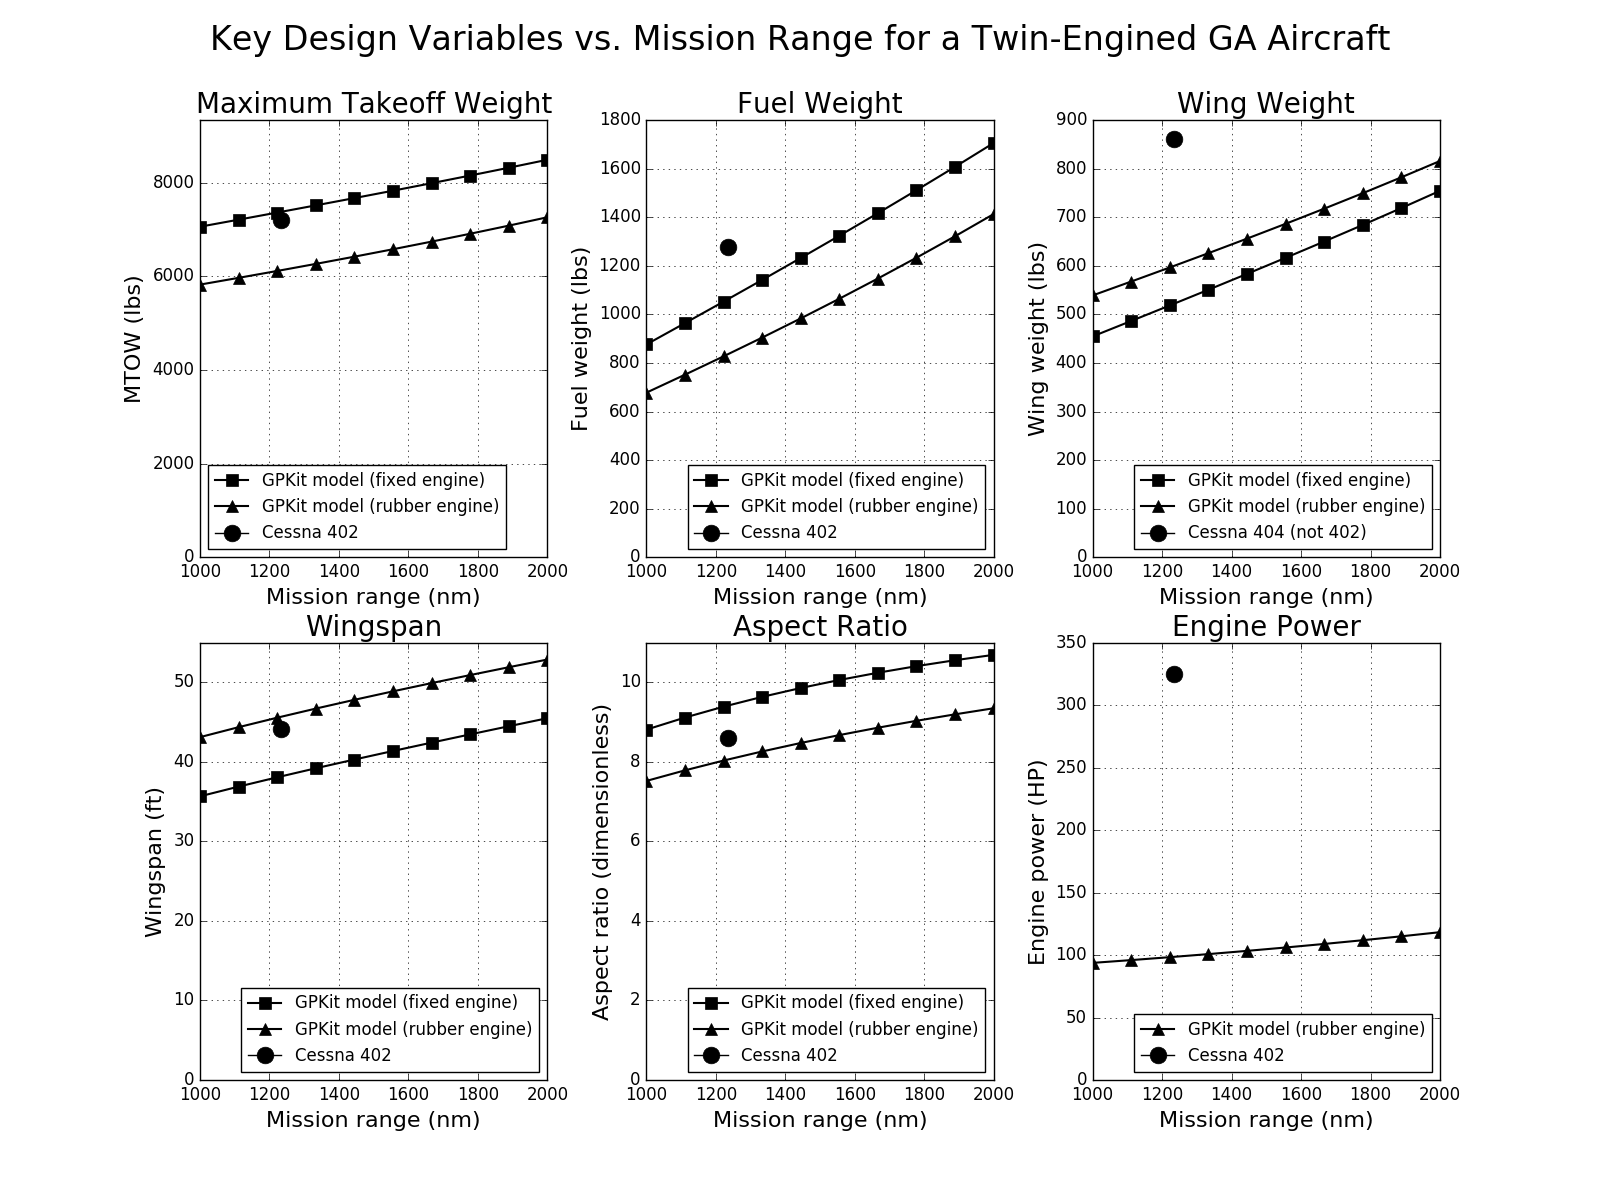
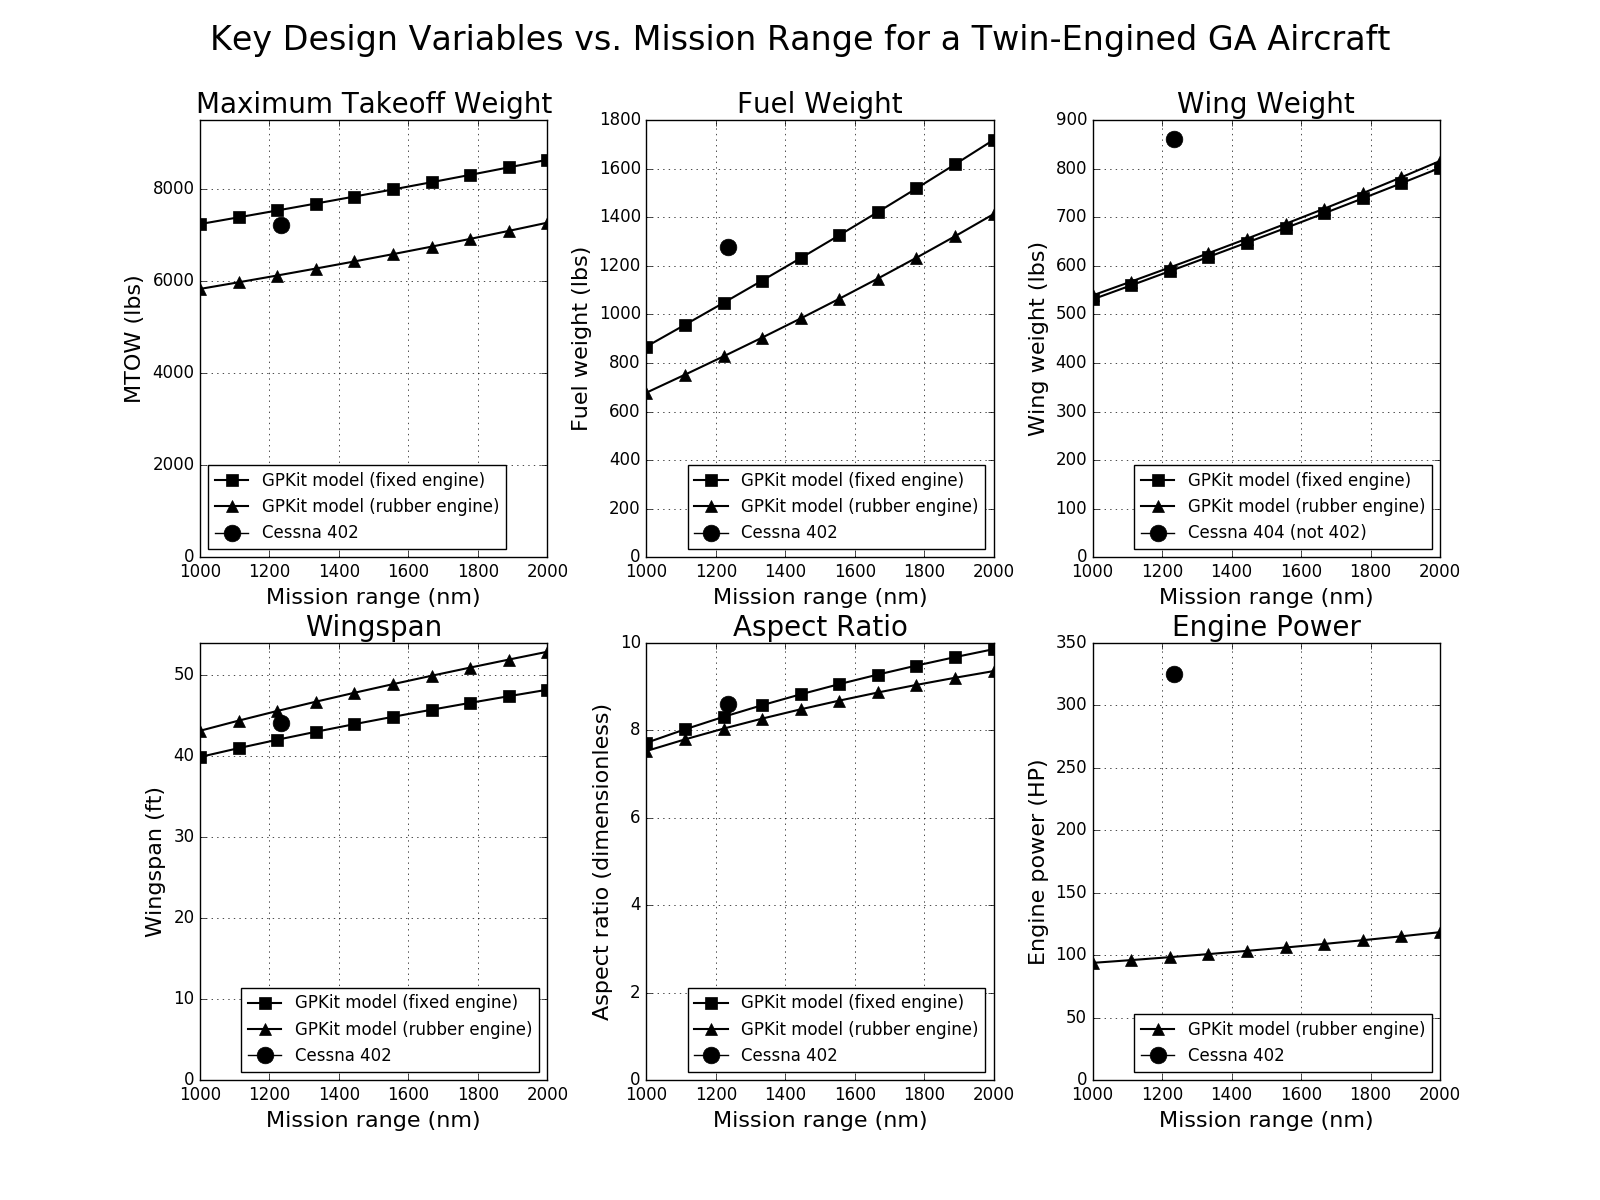
Add stall-speed constraint

diff --git a/GA_aircraft_models.py b/GA_aircraft_models.py
@@ -15,19 +15,20 @@ class Aircraft(Model): #Overall vehicle model
         W_ZF = Variable("W_ZF","lbf","Zero-fuel weight")
         W_fuel = Variable("W_fuel","lbf","Fuel weight")
         W_TO = Variable("W_TO","lbf","Takeoff weight")
+
+        self.g = Variable("g",9.807,"m/s**2","Gravitational constant")    
         self.Swet = Variable("Swet","m^2","Aircraft wetted area")
-        
         self.W_TO = W_TO
 
-        self.fuse = Fuselage()
+        self.fuse = Fuselage(self)
         self.wing = Wing(self)
-        self.tailplane = Tailplane()
-        self.fin = VerticalFin()
-        self.engines = Engines(engineType)
-        self.nacelles = Nacelles()
+        self.tailplane = Tailplane(self)
+        self.fin = VerticalFin(self)
+        self.engines = Engines(self,engineType)
+        self.nacelles = Nacelles(self)
         self.landing_gear = LandingGear(self)
-        self.crew = Crew()
-        self.passengers = Passengers()
+        self.crew = Crew(self)
+        self.passengers = Passengers(self)
         self.allOtherWeights = AllOtherWeights(self)
 
         self.components = [self.fuse, self.wing, self.tailplane,self.fin,
@@ -47,8 +48,9 @@ class Aircraft(Model): #Overall vehicle model
         return constraints
 
 class Fuselage(Model):
-    def setup(self):
-        g = Variable("g",9.807,"m/s**2","Gravitational constant")
+    def setup(self,aircraft):
+
+    	g = aircraft.g
         weight_multiplier_fuse = Variable("weight_multiplier_fuse",7,
             "kg/m^2","Fuselage weight multiplier")
         Swet = Variable("Swet",43.6,"m^2","Fuselage wetted area")
@@ -72,7 +74,7 @@ class Wing(Model):
             "Allowable stress of 7075-T6 aluminum")
         wing_SA_multiplier = Variable("wing_SA_multiplier",
             3.60,"kg/m^2","Wing surface-area weight multiplier")
-        g = Variable("g",9.807,"m/s**2","Gravitational constant")
+        g = aircraft.g
         WTO_term = Variable("WTO_term","N*m","Takeoff-weight term")
 
         lambda_wing = 0.6 #Included here to avoid posynomial-compatibility issues
@@ -90,7 +92,7 @@ class Wing(Model):
 
 
 class Tailplane(Model):
-    def setup(self):
+    def setup(self,aircraft):
         S_HT = Variable("S_HT","m^2","Tailplane reference area")
         Swet = Variable("Swet","m^2","Tailplane wetted area")
         c_HT = Variable("c_HT",0.8,"-","Tailplane volume coefficient")
@@ -99,7 +101,7 @@ class Tailplane(Model):
         t_c = Variable("t_c",0.15,"-","Thickness-to-chord ratio")
         weight_multiplier_tail = Variable("weight_multiplier_tail",10,
             "kg/m^2","Tail weight multiplier")
-        g = Variable("g",9.807,"m/s**2","Gravitational constant")
+        g = aircraft.g
         W = Variable("W","N","Tailplane weight")
 
         return [Swet >= 1.6*S_HT*(1+0.25*t_c),
@@ -107,7 +109,7 @@ class Tailplane(Model):
         
 
 class VerticalFin(Model):
-    def setup(self):
+    def setup(self,aircraft):
         S_VT = Variable("S_VT","m^2","Fin reference area")
         Swet = Variable("Swet","m^2","Fin wetted area")
         c_VT = Variable("c_VT",0.07,"-","Fin volume coefficient")
@@ -116,20 +118,20 @@ class VerticalFin(Model):
         t_c = Variable("t_c",0.15,"-","Thickness-to-chord ratio")
         weight_multiplier_tail = Variable("weight_multiplier_tail",10,
             "kg/m^2","Tail weight multiplier")
-        g = Variable("g",9.807,"m/s**2","Gravitational constant")
+        g = aircraft.g
         W = Variable("W","N","Vertical-fin weight")
 
         return [Swet >= 1.6*S_VT*(1+0.25*t_c),
             W == g * weight_multiplier_tail * S_VT]
 
 class Engines(Model): #Fixed engine only for now
-    def setup(self,engineType):
+    def setup(self,aircraft,engineType):
         # Engine-related variables & constants
         num_engines = Variable("num_engines",2,"-","Number of engines")
         eta_prop = Variable("eta_prop",0.8,'-',"Propeller efficiency")
         SFC = Variable("SFC",6.94e-8,"s**2/m**2",\
             "Engine power-specific fuel consumption") # careful with unit conversion
-        g = Variable("g",9.807,"m/s**2","Gravitational constant")
+        g = aircraft.g
         W = Variable("W","N","Engine(s) weight")
         Swet = Variable("Swet",0,"m^2","Wetted area of engines")
         P = Variable("P","kW","Engine power")
@@ -151,7 +153,7 @@ class Engines(Model): #Fixed engine only for now
 
 
 class Nacelles (Model):
-    def setup(self):
+    def setup(self,aircraft):
         Swet_oneNacelle = Variable("Swet_oneNacelle",8.172,"m^2","Wetted area of 1 nacelle")
         num_nacelles = Variable("num_nacelles",2,"-","Number of nacelles")
         Swet = Variable("Swet","m^2","Wetted area of nacelles")
@@ -169,10 +171,10 @@ class LandingGear(Model):
 
 
 class Crew(Model):
-    def setup(self):
+    def setup(self,aircraft):
         num_crew = Variable("num_crew",2,"-","Number of crew members")
         crew_mass = Variable("crew_mass",200,"lbs","Mass per crew member")
-        g = Variable("g",9.807,"m/s**2","Gravitational constant")
+        g = aircraft.g
         W = Variable("W","N","Crew weight")
         Swet = Variable("Swet",0,"m^2","Wetted area of crew")
         
@@ -180,11 +182,11 @@ class Crew(Model):
 
 
 class Passengers(Model):
-    def setup(self):
+    def setup(self,aircraft):
         num_passengers = Variable("num_passengers",8,"-","Number of passengers")
         passenger_mass = Variable("passenger_mass",180+40,"lbs",
             "Mass per passenger (including baggage)")
-        g = Variable("g",9.807,"m/s**2","Gravitational constant")
+        g = aircraft.g
         W = Variable("W","N","Passenger weight")
         Swet = Variable("Swet",0,"m^2","Wetted area of passengers")
         
@@ -203,7 +205,8 @@ class Mission(Model):
         
         self.aircraft = aircraft
         W_TO = aircraft["W_TO"]
-        g = Variable("g",9.807,"m/s**2","Gravitational constant")
+        g = aircraft.g
+        self.g = g
 
         constraints = []
         
@@ -256,7 +259,7 @@ class AircraftPerformance(Model):
         CL = self.aerodynamics["C_L"]
         CD = self.aerodynamics["C_D"]
         
-        g = Variable("g",9.807,"m/s**2","Gravitational constant")
+        g = aircraft.g
 
         constraints = []
         constraints += [self.aerodynamics]
@@ -320,9 +323,6 @@ class FlightState(Model):
         
         constraints = []
 
-        g = Variable("g",9.807,"m/s**2","Gravitational constant")
-        constraints += [g == g]
-
         if stateType == "cruise":
             V = Variable("V",180,"knots","Airspeed")
             h = Variable("h",8000,"ft","Altitude")
@@ -336,7 +336,7 @@ class FlightState(Model):
 
         return constraints 
 
-class TakeoffConstraint(Model):
+class TakeoffDistance(Model):
 
     def setup(self,aircraft,s_TO_ft=1763,state=FlightState(stateType="takeoff")):
         self.aircraft = aircraft
@@ -345,7 +345,7 @@ class TakeoffConstraint(Model):
         
         CLmax_TO = self.aerodynamics["CLmax_TO"]
         CD = self.aerodynamics["C_D"]
-        g = self.state["g"]
+        g = aircraft.g
 
         y = Variable("y","-","Takeoff-distance parameter 1")
         zeta = Variable("zeta","-","Takeoff-distance parameter 2")
@@ -364,3 +364,25 @@ class TakeoffConstraint(Model):
         constraints += [self.state, self.aerodynamics]
 
         return constraints
+
+class StallSpeed(Model):
+
+	def setup(self,aircraft,Vstall_kts=78,state=FlightState(stateType="takeoff")):
+
+		self.aircraft = aircraft
+		self.state = state
+		self.aerodynamics = Aerodynamics(aircraft,stateType="takeoff")
+
+		W_half = Variable("W_{half}","lbf","Weight at 50% cruise (approximate")
+
+		Vstall = Variable("Vstall","knots","Sea-level stalling speed (knots)")
+		Vstall_req = Variable("Vstall_req",Vstall_kts,"knots","Sea-level stalling speed requirement (knots)")
+		CLmax = self.aerodynamics["CLmax_cruise"]
+
+		constraints = []
+
+		constraints += [W_half >= aircraft["W_ZF"] + 0.5*aircraft["W_fuel"],
+						Vstall == ((2**0.5 * W_half**0.5)/(self.state["rho"]**0.5 * self.aircraft["S"]**0.5 * CLmax**0.5)),
+						Vstall <= Vstall_req]
+
+		return constraints

diff --git a/GA_model.py b/GA_model.py
@@ -14,6 +14,7 @@ ureg = pint.UnitRegistry()
 takeoff_distance_ft = 1763
 range_nm = np.linspace(1000,2000,10)
 N = 5 #number of cruise segments
+stall_speed_kts = 78
 
 GA_aircraft_fixedEngine = Aircraft(engineType="fixed")
 GA_aircraft_rubberEngine = Aircraft(engineType="rubber")
@@ -21,15 +22,21 @@ GA_aircraft_rubberEngine = Aircraft(engineType="rubber")
 GA_mission_fixedEngine = Mission(GA_aircraft_fixedEngine,missionLength_nm=range_nm,numCruiseSegments=N)
 GA_mission_rubberEngine = Mission(GA_aircraft_rubberEngine,missionLength_nm=range_nm,numCruiseSegments=N)
 
-GA_takeoffConstraint_fixedEngine = TakeoffConstraint(GA_aircraft_fixedEngine,
+GA_takeoffConstraint_fixedEngine = TakeoffDistance(GA_aircraft_fixedEngine,
     s_TO_ft=takeoff_distance_ft)
-GA_takeoffConstraint_rubberEngine = TakeoffConstraint(GA_aircraft_rubberEngine,
+GA_takeoffConstraint_rubberEngine = TakeoffDistance(GA_aircraft_rubberEngine,
     s_TO_ft=takeoff_distance_ft)
 
-GA_model_fixedEngine = Model(GA_aircraft_fixedEngine.W_TO,
-    [GA_aircraft_fixedEngine, GA_mission_fixedEngine,GA_takeoffConstraint_fixedEngine])
-GA_model_rubberEngine = Model(GA_aircraft_rubberEngine.W_TO,
-    [GA_aircraft_rubberEngine, GA_mission_rubberEngine,GA_takeoffConstraint_rubberEngine])
+GA_stallSpeedConstraint_fixedEngine = StallSpeed(GA_aircraft_fixedEngine,Vstall_kts=stall_speed_kts)
+GA_stallSpeedConstraint_rubberEngine = StallSpeed(GA_aircraft_rubberEngine,Vstall_kts=stall_speed_kts)
+
+constraints_fixedEngine = [GA_aircraft_fixedEngine, GA_mission_fixedEngine,
+                            GA_takeoffConstraint_fixedEngine, GA_stallSpeedConstraint_fixedEngine]
+constraints_rubberEngine = [GA_aircraft_rubberEngine, GA_mission_rubberEngine,
+                            GA_takeoffConstraint_rubberEngine, GA_stallSpeedConstraint_rubberEngine]
+
+GA_model_fixedEngine = Model(GA_aircraft_fixedEngine.W_TO,constraints_fixedEngine)
+GA_model_rubberEngine = Model(GA_aircraft_rubberEngine.W_TO,constraints_rubberEngine)
 
 GA_solution_fixedEngine = GA_model_fixedEngine.solve(verbosity=0)
 GA_solution_rubberEngine = GA_model_rubberEngine.solve(verbosity=0)
